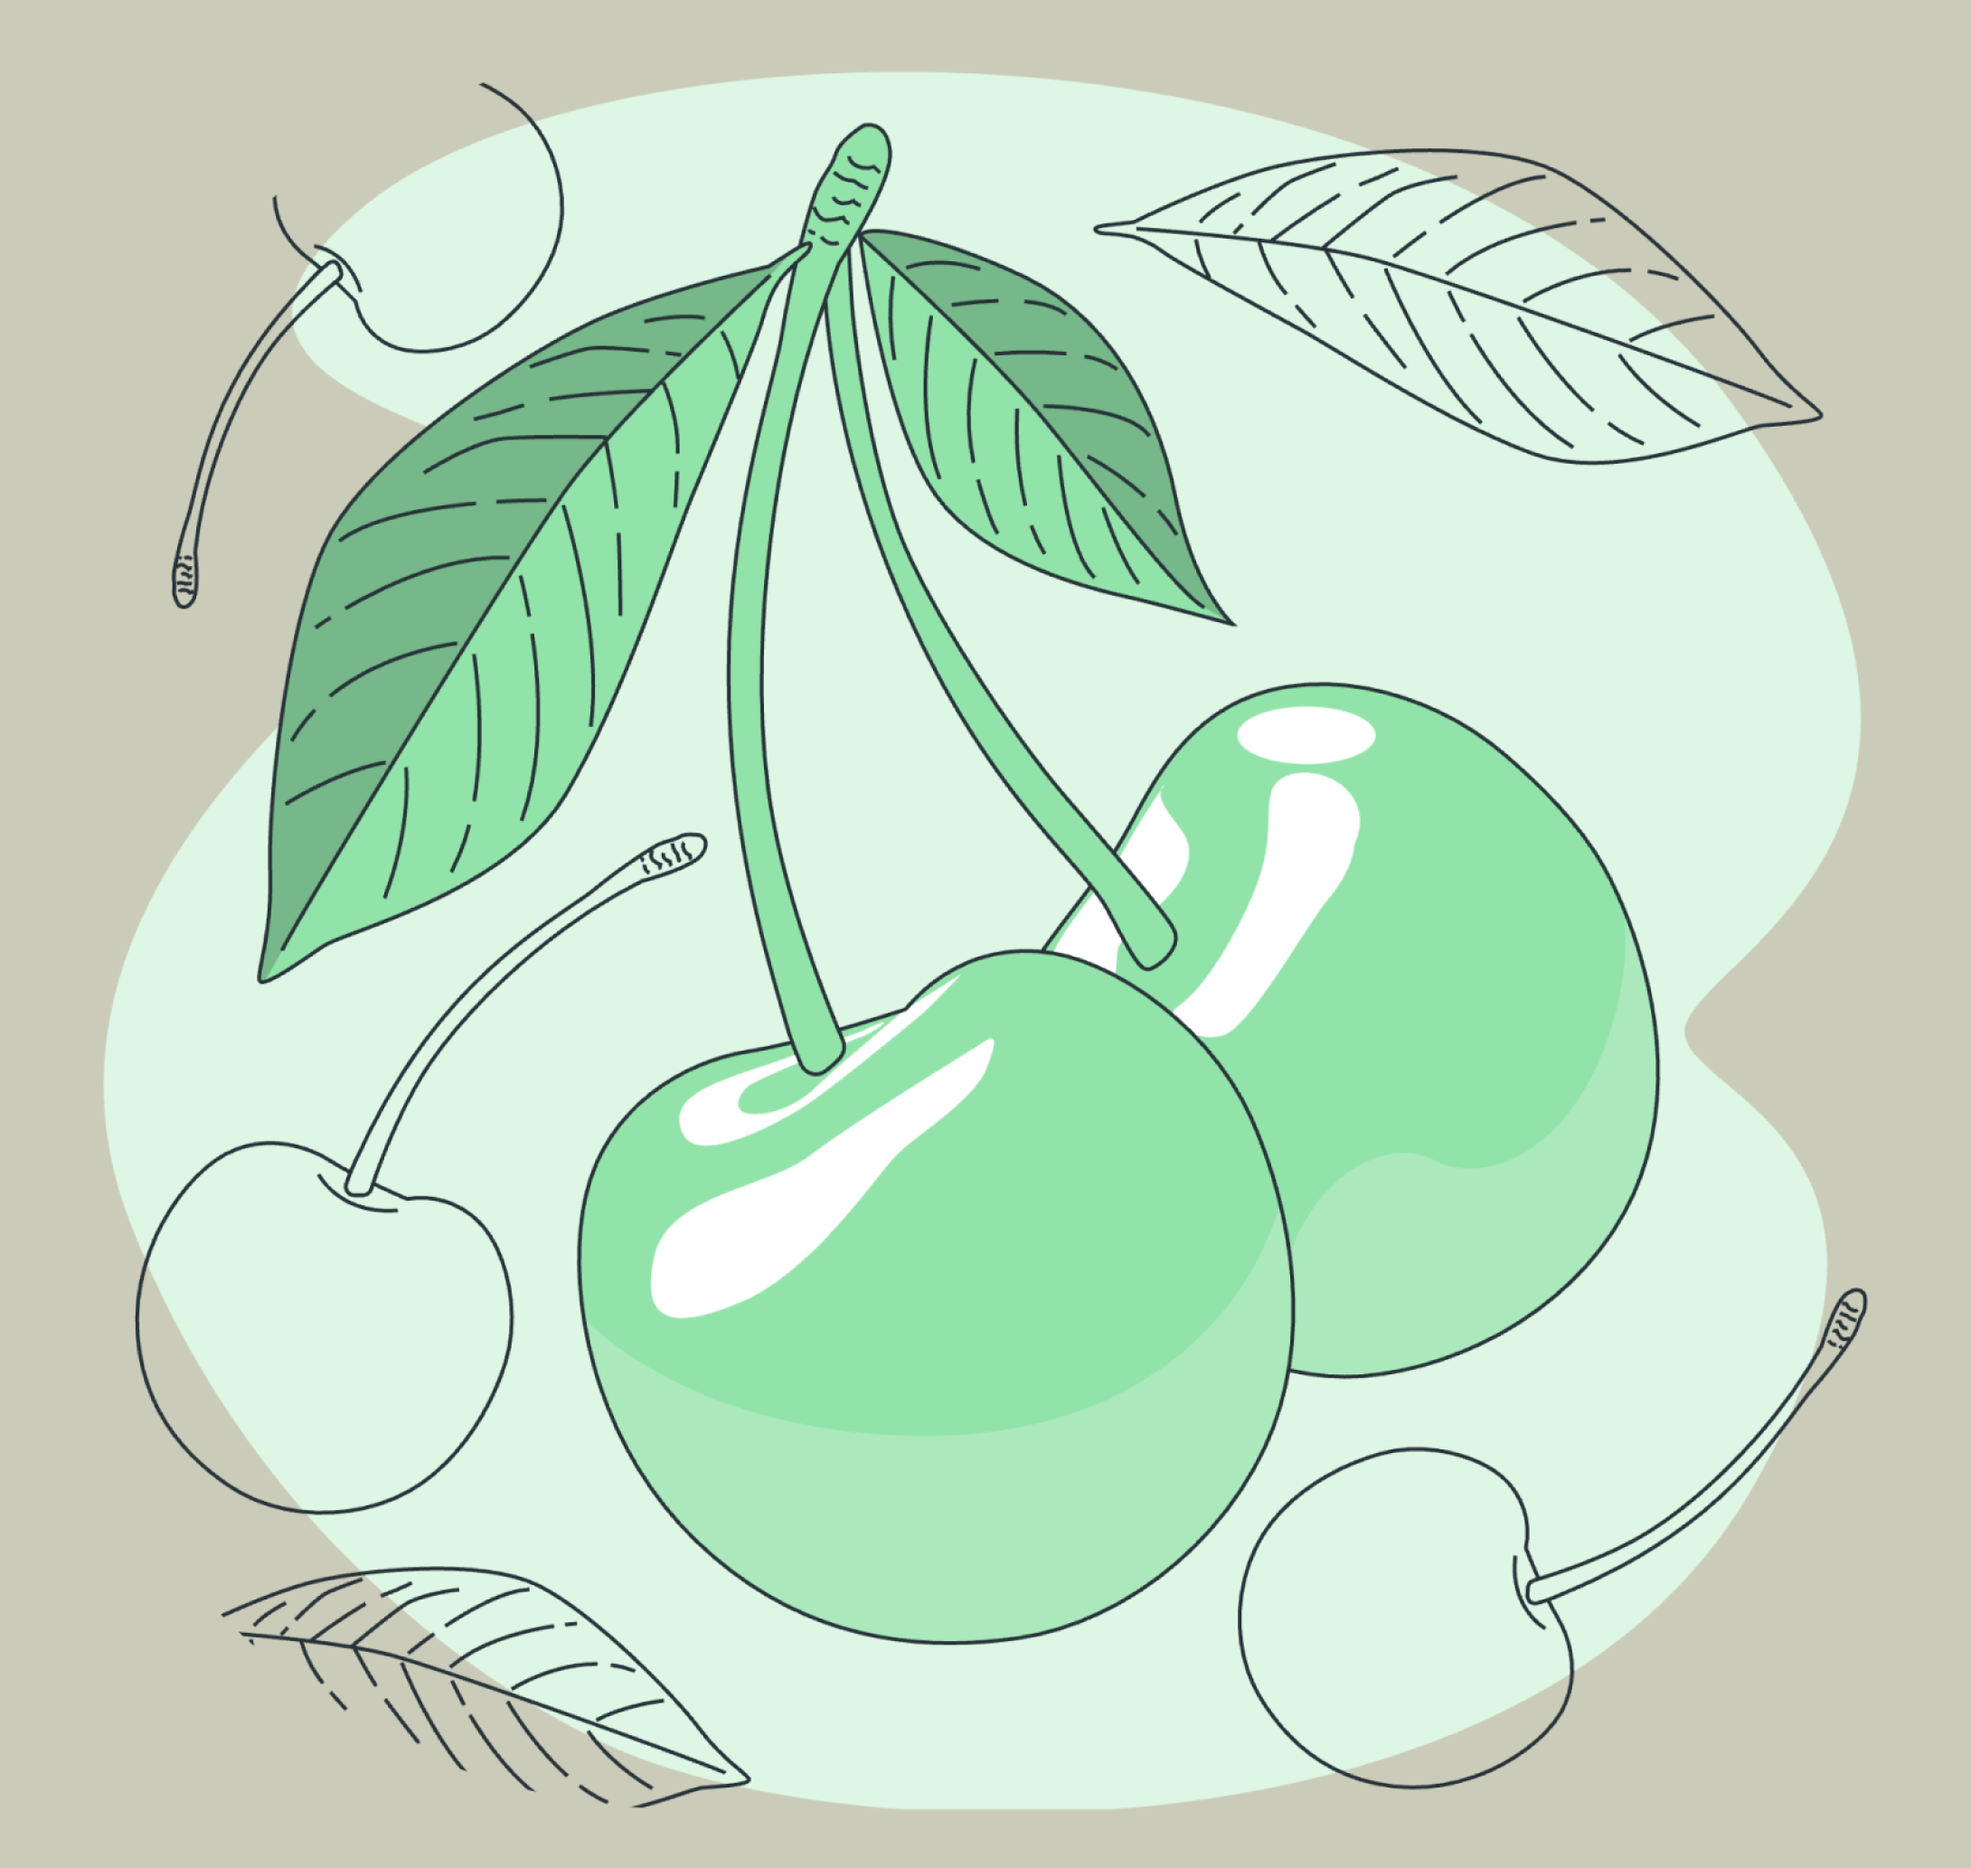
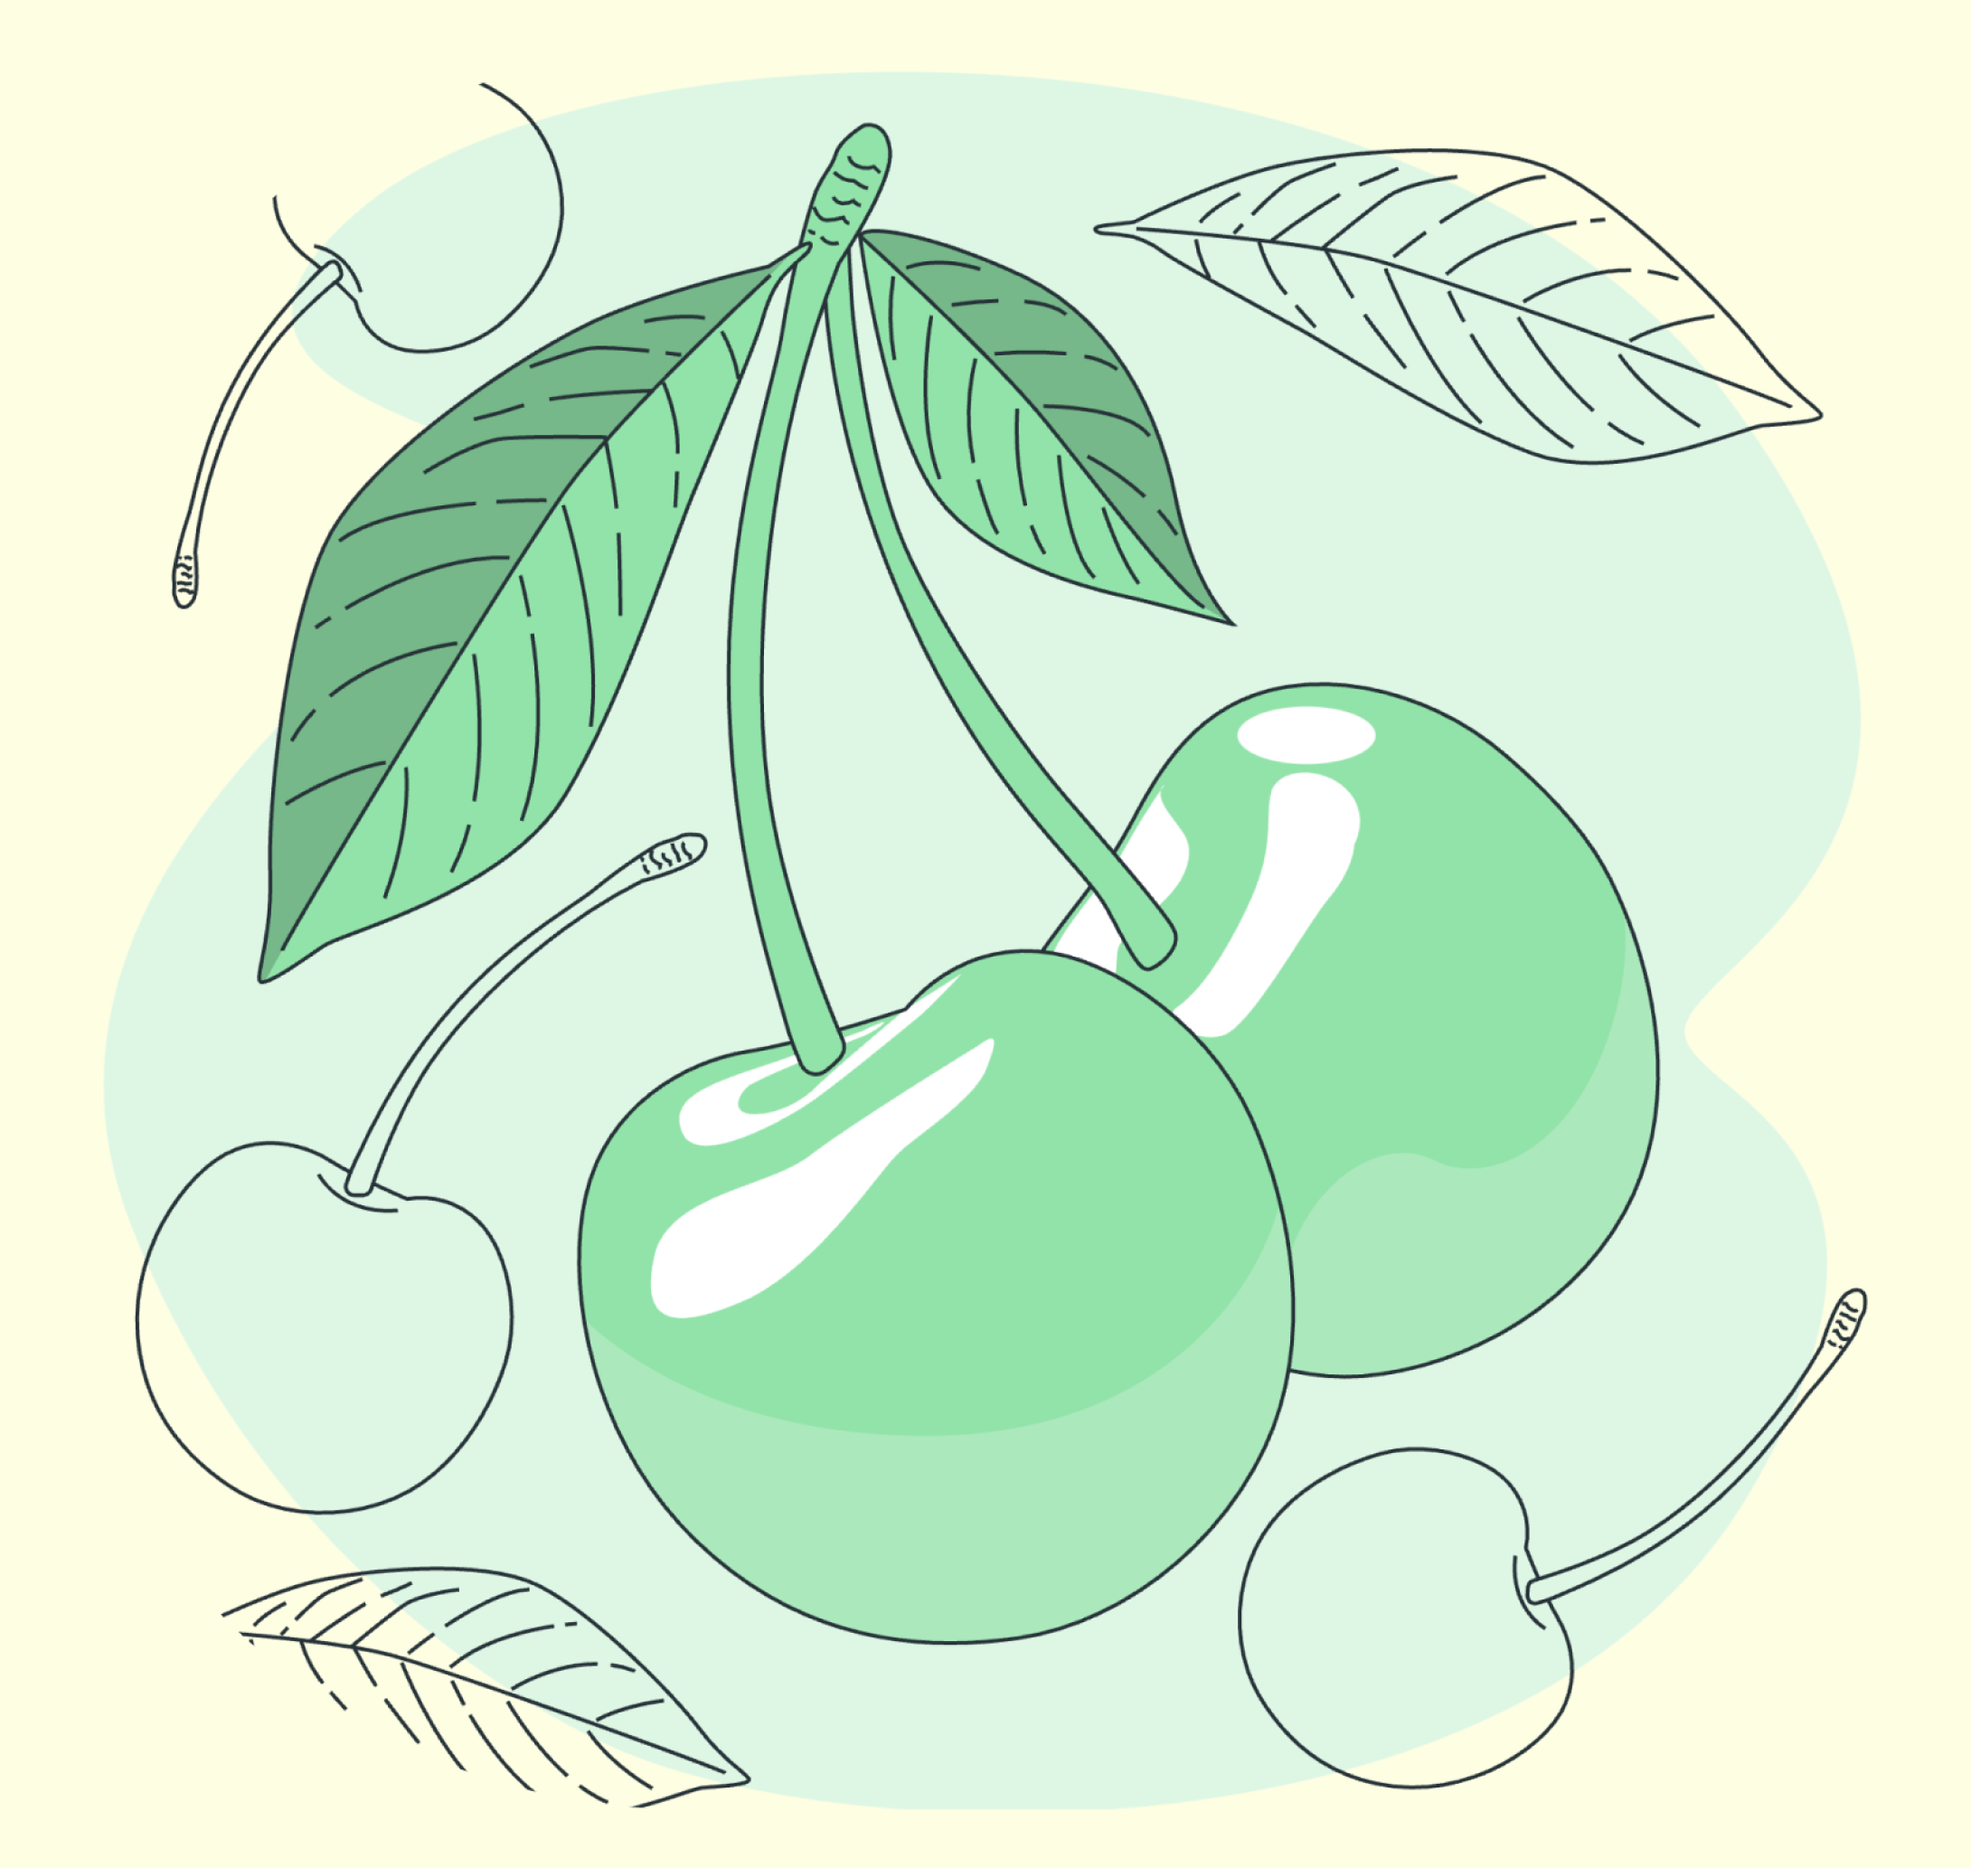
White recolor

diff --git a/frontend/src/index.css b/frontend/src/index.css
@@ -5,6 +5,10 @@ body {
     /* overflow-style: none;   */
 }
 
+main{
+  background-color: #fefee3;
+}
+
 ::-webkit-scrollbar {
   -webkit-appearance: none;
   width: 0px;
@@ -14,7 +18,7 @@ body {
 /*  */
 
 .page-bg{
-  background-color: white;
+  background-color: #fefee3;
   /* height: 90rem; */
   display: flex;
   flex-direction: column;
@@ -56,11 +60,11 @@ header {
   font-weight: bold;
   font-style: normal;
   text-decoration: none;
-  color: #FFF;
+  color: #fefee3;
 }
 
 nav ul {
-  color:white;
+  color:#fefee3;
   display: flex;
   background-size: cover;
   /* gap: 4.5rem; */
@@ -167,7 +171,7 @@ nav a {
   margin-top: 0px;
   height: 100%;
   /* width: auto; */
-  background-color: #CBCBB9;
+  background-color: #fefee3;
   background-repeat: no-repeat;
   background-size: cover;
   display: flex;
@@ -181,7 +185,7 @@ nav a {
   padding: 2rem 4rem;
   margin: 2rem;
   background-color: #4d956d;
-  color: white;
+  color: #fefee3;
   border-radius:25px;
   font-size: 15px;
   font-weight: bold;
@@ -197,7 +201,7 @@ nav a {
   padding-top: 5rem;
   /* height: 100%; */
   /* width: auto; */
-  color: white;
+  color: #fefee3;
   background-color: #56765B;
   background-repeat: no-repeat;
   background-size: cover;
@@ -252,7 +256,7 @@ nav a {
   margin-top: 0px;
   height: 100%;
   width: auto;
-  background-color: #CBCBB9;
+  background-color: #fefee3;
   background-repeat: no-repeat;
   background-size: cover;
   display: flex;
@@ -436,13 +440,13 @@ main{
 #search-food-area{
   display: flex;
   flex-direction: column;
-  /* background-color:; */
+  background-color:#fefee3;
   /* height: 100em; */
   /* border-radius: 15px; */
 }
 
 #search-text{
-  color: white;
+  color: #fefee3;
   background-color: #2c6e49;
   background-size: 200%;
   padding: 20px 200px;
@@ -914,10 +918,11 @@ main{
 /* GROCERY CART - START */
 
 #grocery-list-page{
-  height: 110rem;
+  /* height: 110rem; */
   display: flex;
   flex-direction: column;
   align-items: center;
+  background-color: #fefee3;
 }
 
 #grocery-cart-card{
@@ -1004,6 +1009,7 @@ main{
 #mainAB{
   display:grid;
   justify-content: space-evenly;
+  background-color: #fefee3;
 }
 #team-container{
   display: flex;
